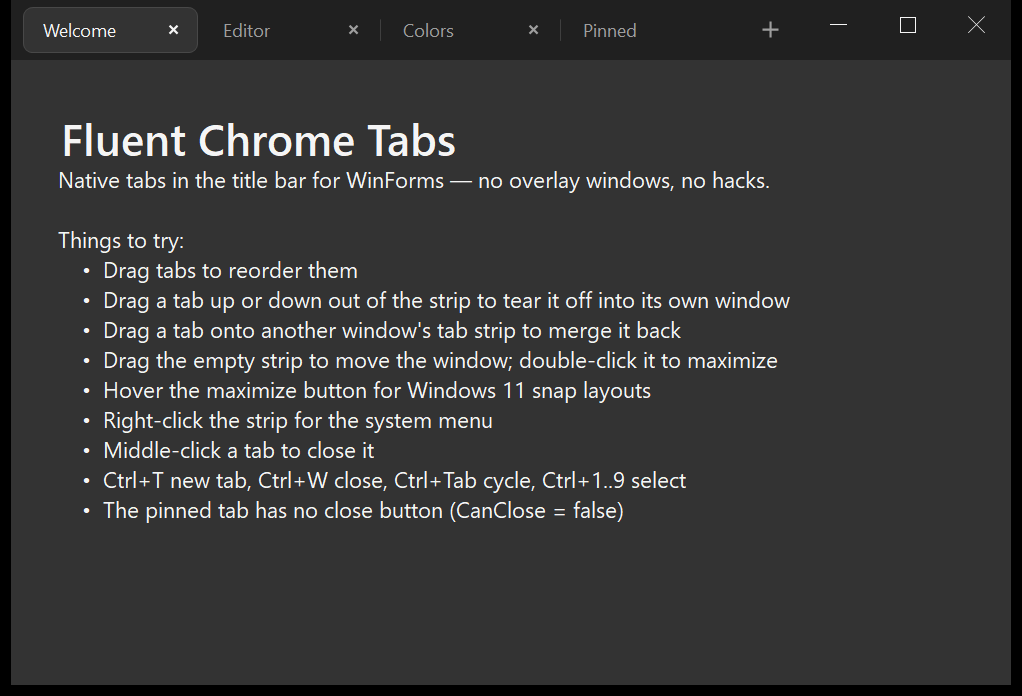
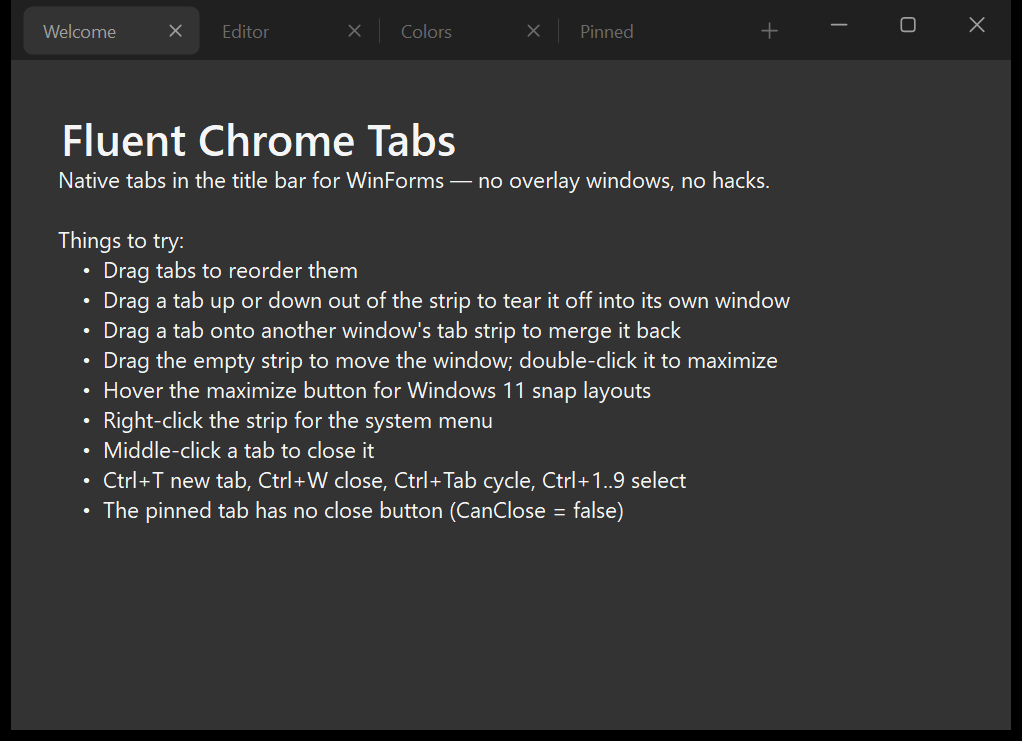
Match Edge visuals: full-height tab cards and vector Fluent glyphs
Corrections after comparing against a real Edge screenshot:

- Tabs now fill nearly the whole strip height (32px cards, 4px bottom
  gap, 2px between tabs) instead of small floating chips, matching how
  Edge tabs sit in the title bar; active-tab outline is light-theme
  only, as in Edge dark
- All glyphs redrawn as thin anti-aliased vector paths in the Segoe
  Fluent Icons style: round-capped minimize dash and close cross,
  rounded-corner maximize square, and a proper two-sheet ChromeRestore.
  Vector paths (not icon fonts) so the Fluent look renders on any
  Windows version, per compatibility requirement
- Tab close and new-tab glyphs use the same thin stroke style
- README screenshots regenerated

diff --git a/FluentChromeTabs/FluentChromeTabsForm.Painting.cs b/FluentChromeTabs/FluentChromeTabsForm.Painting.cs
@@ -13,6 +13,36 @@ namespace FluentChromeTabs
         private bool _hoverNewTab;
         private string _toolTipShownFor;
 
+        /// <summary>Device-scale factor for glyph geometry (1.0 at 96 DPI).</summary>
+        private float GlyphScale
+        {
+            get { return DeviceDpi / 96f; }
+        }
+
+        /// <summary>
+        /// Thin round-capped pen matching the stroke weight of Segoe Fluent Icons. Glyphs are drawn as
+        /// vector paths rather than font glyphs so the Fluent look works on any Windows version.
+        /// </summary>
+        private Pen GlyphPen(Color color)
+        {
+            Pen pen = new Pen(color, Math.Max(1f, 1.1f * GlyphScale));
+            pen.StartCap = LineCap.Round;
+            pen.EndCap = LineCap.Round;
+            pen.LineJoin = LineJoin.Round;
+            return pen;
+        }
+
+        private static GraphicsPath RoundedRectPathF(float x, float y, float w, float h, float r)
+        {
+            GraphicsPath path = new GraphicsPath();
+            path.AddArc(x, y, r * 2, r * 2, 180, 90);
+            path.AddArc(x + w - r * 2, y, r * 2, r * 2, 270, 90);
+            path.AddArc(x + w - r * 2, y + h - r * 2, r * 2, r * 2, 0, 90);
+            path.AddArc(x, y + h - r * 2, r * 2, r * 2, 90, 90);
+            path.CloseFigure();
+            return path;
+        }
+
         protected override void OnPaint(PaintEventArgs e)
         {
             base.OnPaint(e);
@@ -80,7 +110,8 @@ namespace FluentChromeTabs
                         g.FillPath(brush, path);
                     }
 
-                    if (active)
+                    // Edge shows a soft outline on the active tab only in light themes; dark tabs are borderless
+                    if (active && !_isDark)
                     {
                         using (Pen pen = new Pen(_palette.TabBorder))
                         {
@@ -130,11 +161,13 @@ namespace FluentChromeTabs
                     }
                 }
 
-                using (Pen pen = new Pen(StripTextColor(active), Dpi(1) * 1.1f))
+                using (Pen pen = GlyphPen(StripTextColor(active)))
                 {
-                    int inset = Dpi(5);
-                    g.DrawLine(pen, close.Left + inset, close.Top + inset, close.Right - inset, close.Bottom - inset);
-                    g.DrawLine(pen, close.Left + inset, close.Bottom - inset, close.Right - inset, close.Top + inset);
+                    float ccx = close.Left + close.Width / 2f;
+                    float ccy = close.Top + close.Height / 2f;
+                    float arm = 3.5f * GlyphScale;
+                    g.DrawLine(pen, ccx - arm, ccy - arm, ccx + arm, ccy + arm);
+                    g.DrawLine(pen, ccx - arm, ccy + arm, ccx + arm, ccy - arm);
                 }
             }
         }
@@ -163,11 +196,11 @@ namespace FluentChromeTabs
                 }
             }
 
-            using (Pen pen = new Pen(StripTextColor(false), Dpi(1) * 1.1f))
+            using (Pen pen = GlyphPen(StripTextColor(false)))
             {
-                int cx = rect.Left + rect.Width / 2;
-                int cy = rect.Top + rect.Height / 2;
-                int arm = Dpi(5);
+                float cx = rect.Left + rect.Width / 2f;
+                float cy = rect.Top + rect.Height / 2f;
+                float arm = 5f * GlyphScale;
                 g.DrawLine(pen, cx - arm, cy, cx + arm, cy);
                 g.DrawLine(pen, cx, cy - arm, cx, cy + arm);
             }
@@ -194,55 +227,62 @@ namespace FluentChromeTabs
                 }
             }
 
+            // Fluent-style glyphs (Segoe Fluent Icons look) drawn as vector paths: thin anti-aliased
+            // strokes with rounded corners, so they render on any Windows version without icon fonts
             Color glyphColor = isClose && (hot || pressed) ? Color.White : StripTextColor(true);
-            int x = rect.Left + rect.Width / 2;
-            int y = rect.Top + rect.Height / 2;
-            int arm = Dpi(5);
+            float s = GlyphScale;
+            float cx = rect.Left + rect.Width / 2f;
+            float cy = rect.Top + rect.Height / 2f;
 
-            SmoothingMode previous = g.SmoothingMode;
-            g.SmoothingMode = SmoothingMode.None;
+            g.SmoothingMode = SmoothingMode.AntiAlias;
 
-            using (Pen pen = new Pen(glyphColor))
+            using (Pen pen = GlyphPen(glyphColor))
             {
                 switch (htCode)
                 {
                     case NativeMethods.HTMINBUTTON:
-                        g.DrawLine(pen, x - arm, y, x + arm, y);
+                        g.DrawLine(pen, cx - 5f * s, cy, cx + 5f * s, cy);
                         break;
 
                     case NativeMethods.HTMAXBUTTON:
                         if (NativeMethods.IsZoomed(Handle))
                         {
-                            int box = Dpi(8);
-                            int offset = Dpi(2);
+                            // ChromeRestore: front rounded square plus the visible top-right edge of the back sheet
+                            float gx = cx - 5f * s;
+                            float gy = cy - 5f * s;
+                            float front = 8f * s;
+                            float corner = 1.6f * s;
 
-                            // Back square first, then the front square erases its overlap
-                            g.DrawRectangle(pen, x - box / 2 + offset - 1, y - box / 2 - offset + 1, box, box);
-
-                            using (SolidBrush eraser = new SolidBrush(background))
+                            using (GraphicsPath back = new GraphicsPath())
                             {
-                                g.FillRectangle(eraser, x - box / 2 - 1, y - box / 2 - 1, box + 2, box + 2);
+                                back.AddLine(gx + 3.5f * s, gy, gx + 10f * s - corner, gy);
+                                back.AddArc(gx + 10f * s - 2f * corner, gy, 2f * corner, 2f * corner, 270, 90);
+                                back.AddLine(gx + 10f * s, gy + corner, gx + 10f * s, gy + 6.5f * s);
+                                g.DrawPath(pen, back);
                             }
 
-                            g.DrawRectangle(pen, x - box / 2 - 1, y - box / 2 - 1, box + 1, box + 1);
+                            using (GraphicsPath frontPath = RoundedRectPathF(gx, gy + 2f * s, front, front, corner))
+                            {
+                                g.DrawPath(pen, frontPath);
+                            }
                         }
                         else
                         {
-                            int box = Dpi(10);
-                            g.DrawRectangle(pen, x - box / 2, y - box / 2, box, box);
+                            // ChromeMaximize: rounded-corner square
+                            using (GraphicsPath box = RoundedRectPathF(cx - 4.5f * s, cy - 4.5f * s, 9f * s, 9f * s, 1.8f * s))
+                            {
+                                g.DrawPath(pen, box);
+                            }
                         }
 
                         break;
 
                     case NativeMethods.HTCLOSE:
-                        g.SmoothingMode = SmoothingMode.AntiAlias;
-                        g.DrawLine(pen, x - arm, y - arm, x + arm, y + arm);
-                        g.DrawLine(pen, x - arm, y + arm, x + arm, y - arm);
+                        g.DrawLine(pen, cx - 4.5f * s, cy - 4.5f * s, cx + 4.5f * s, cy + 4.5f * s);
+                        g.DrawLine(pen, cx - 4.5f * s, cy + 4.5f * s, cx + 4.5f * s, cy - 4.5f * s);
                         break;
                 }
             }
-
-            g.SmoothingMode = previous;
         }
 
         private void UpdateHoverState(Point p)

diff --git a/FluentChromeTabs/FluentChromeTabsForm.cs b/FluentChromeTabs/FluentChromeTabsForm.cs
@@ -447,18 +447,18 @@ namespace FluentChromeTabs
 
         private int TabHeightPx
         {
-            get { return Dpi(30); }
+            get { return Dpi(32); }
         }
 
         /// <summary>Gap between the bottom of the floating tab cards and the strip edge (Edge style).</summary>
         private int TabBottomMarginPx
         {
-            get { return Dpi(5); }
+            get { return Dpi(4); }
         }
 
         private int TabGapPx
         {
-            get { return Dpi(4); }
+            get { return Dpi(2); }
         }
 
         private int TabRadiusPx